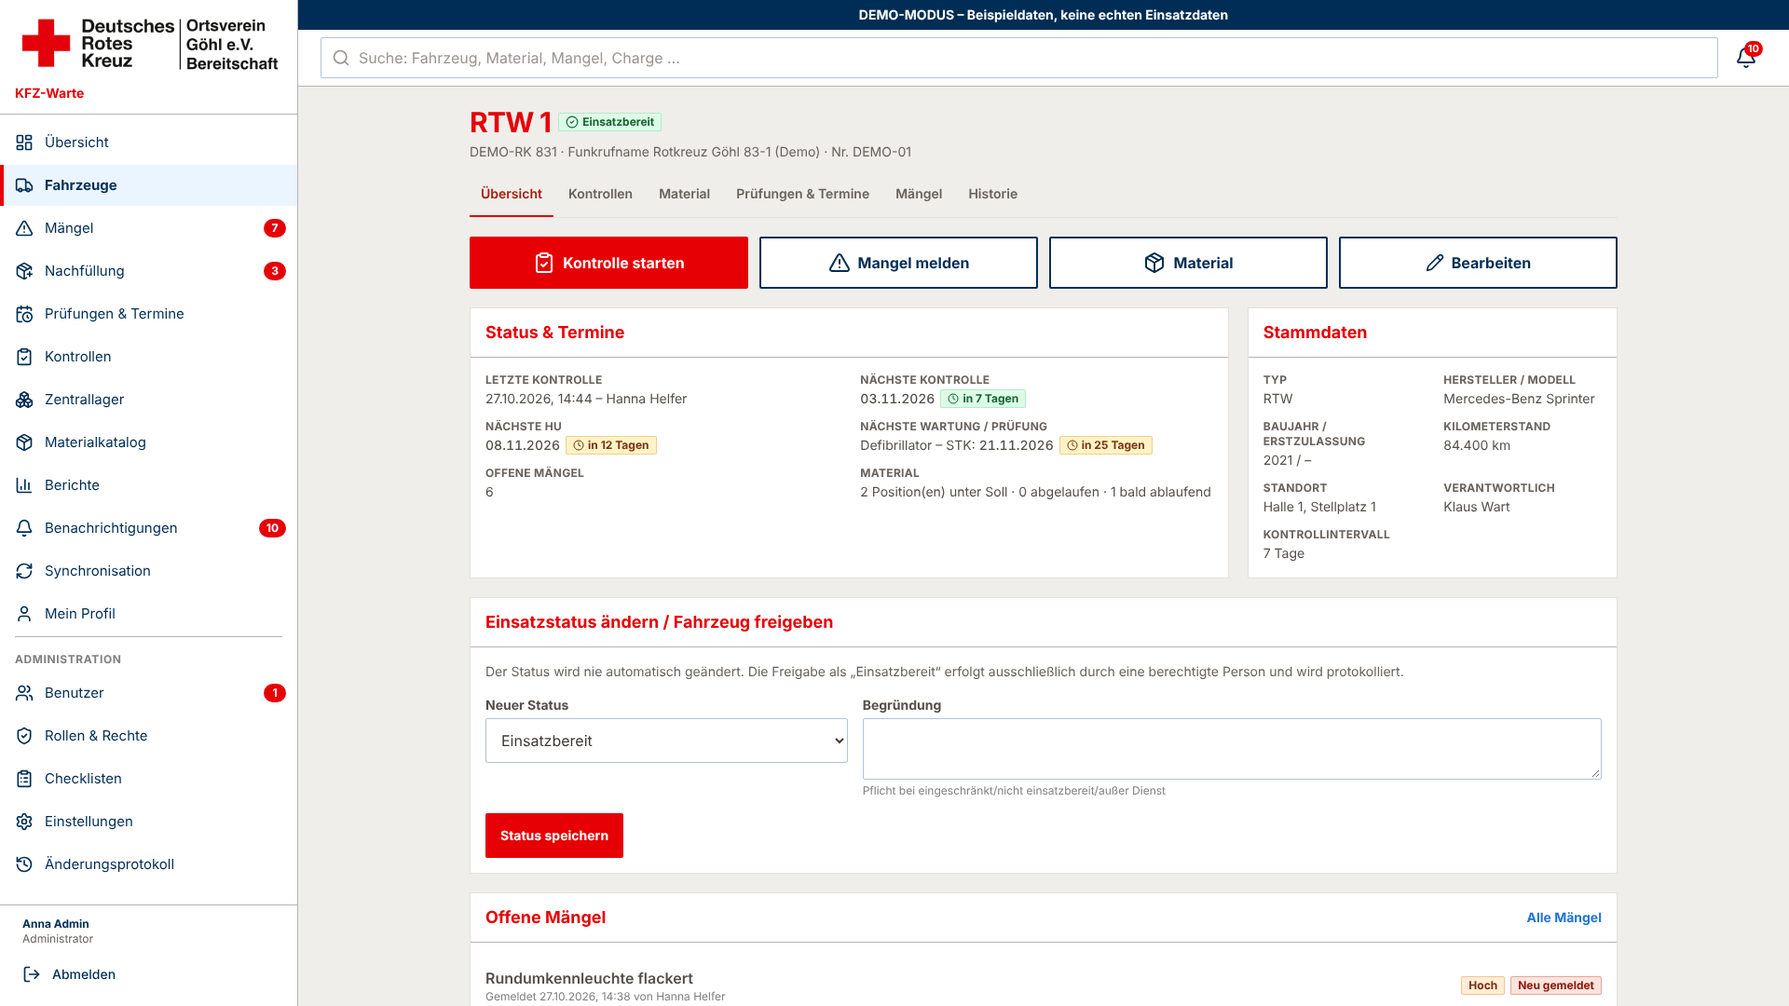
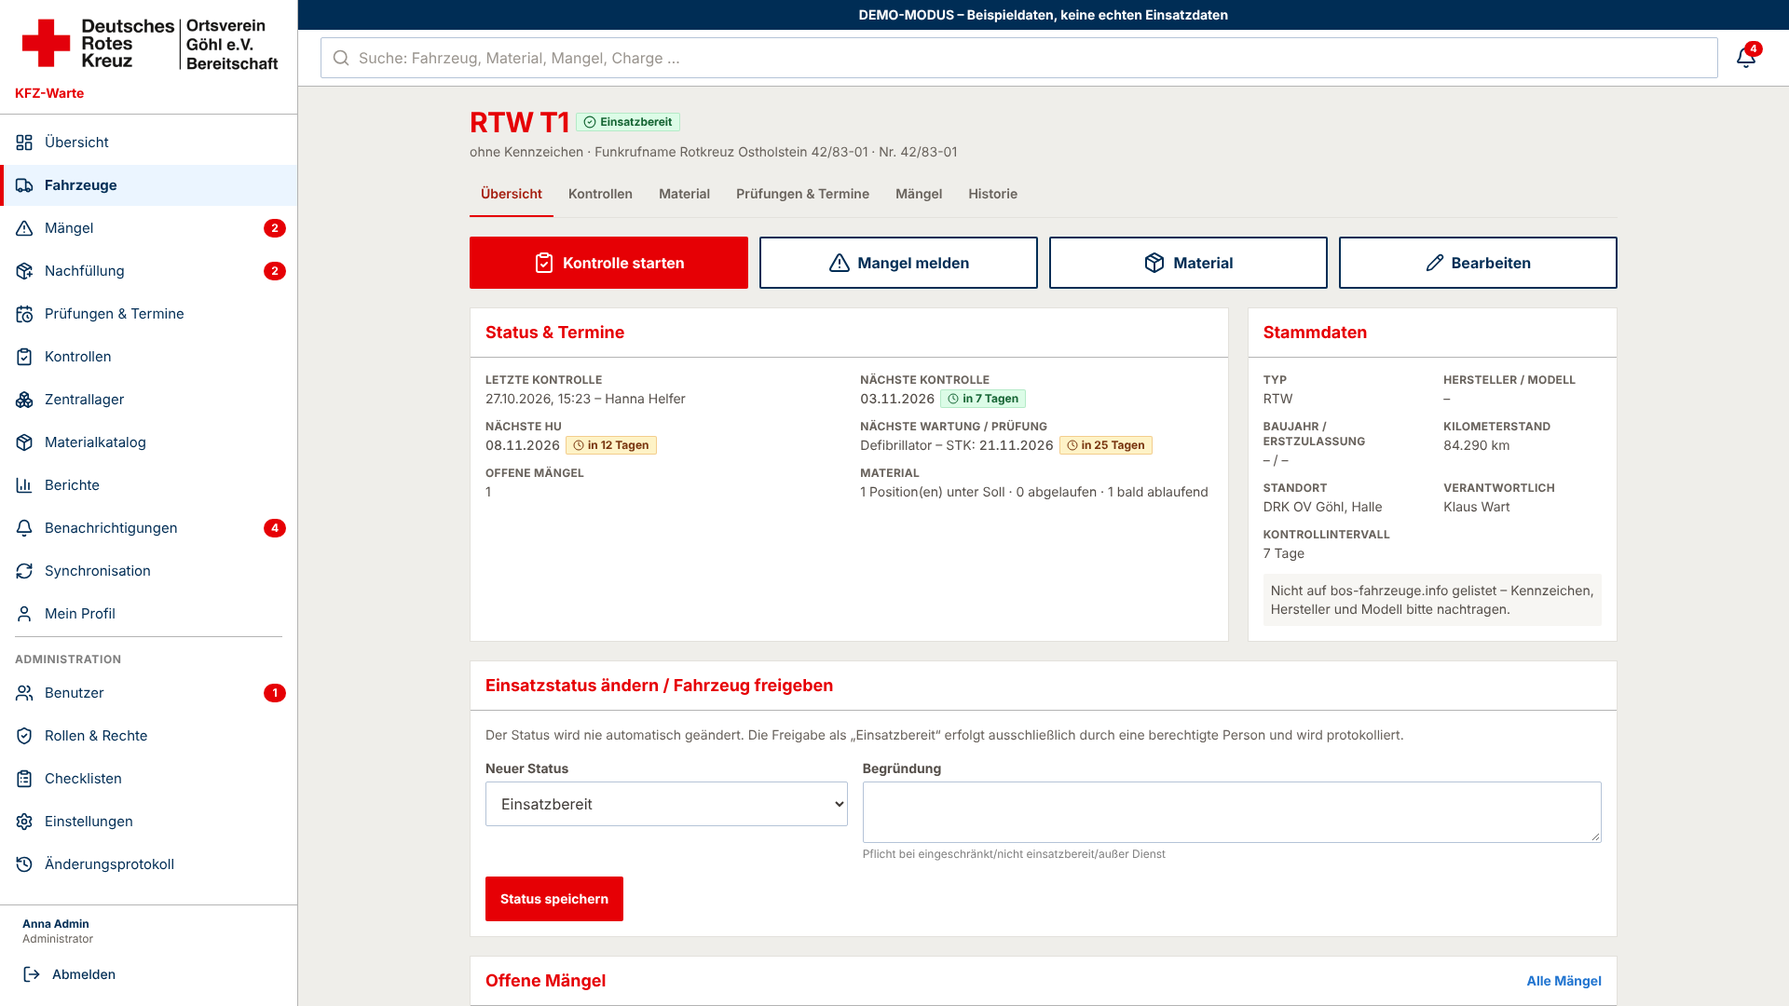
Fahrzeugbestand DRK OV Göhl eingebaut
- Import der 11 Fahrzeuge/Einsatzmittel (npm run db:fahrzeuge), idempotent, mit Protokolleintrag
- Kennzeichen, Klassifizierung, Hersteller laut bos-fahrzeuge.info; neue Fahrzeugtypen
- Kennzeichen optional (Feldkochherd, unbekannte Kennzeichen), geleerte Felder werden beim Bearbeiten gelöscht
- Fahrzeuglisten nach Funkkennung sortiert; Demo-Modus nutzt den echten Fahrzeugbestand
- Tests für Import und optionales Kennzeichen

Claude-Session: https://claude.ai/code/session_01JsYX5eAbazWox3CHVcngmT

diff --git a/prisma/fleet-goehl.ts b/prisma/fleet-goehl.ts
@@ -1,0 +1,84 @@
+/**
+ * Fahrzeugbestand DRK Ortsverein Göhl e.V. (Bereitschaft)
+ * Quelle: Angaben des Ortsvereins + https://bos-fahrzeuge.info/wachen/30215/DRK_OV_Goehl/einsatzfahrzeuge
+ * (Kennzeichen, Klassifizierung, Hersteller – Stand 27.10.2026). Fehlende Angaben bitte in der App ergänzen.
+ */
+import type { PrismaClient } from "@prisma/client";
+
+export type FleetEntry = {
+  internalNumber: string;
+  name: string;
+  radioCallSign?: string;
+  type: string;
+  typeDescription: string;
+  licensePlate?: string;
+  manufacturer?: string;
+  checkIntervalDays: number;
+  remarks?: string;
+};
+
+const SRC = "Stammdaten aus bos-fahrzeuge.info (Stand 27.10.2026) – bitte prüfen und ergänzen (Modell, Baujahr, Erstzulassung, Kilometerstand).";
+
+export const FLEET_GOEHL: FleetEntry[] = [
+  { internalNumber: "42/83-01", name: "RTW T1", radioCallSign: "Rotkreuz Ostholstein 42/83-01", type: "RTW", typeDescription: "Rettungswagen", checkIntervalDays: 7, remarks: "Nicht auf bos-fahrzeuge.info gelistet – Kennzeichen, Hersteller und Modell bitte nachtragen." },
+  { internalNumber: "42/89-01", name: "First Responder", radioCallSign: "Rotkreuz Ostholstein 42/89-01", type: "First Responder", typeDescription: "First-Responder / Helfer vor Ort", licensePlate: "OH-FR 42", manufacturer: "Volkswagen", checkIntervalDays: 7, remarks: SRC },
+  { internalNumber: "42/90-01", name: "N-KTW 1", radioCallSign: "Rotkreuz Ostholstein 42/90-01", type: "N-KTW", typeDescription: "Notfallkrankentransportwagen", licensePlate: "OH-KS 8002", manufacturer: "Mercedes-Benz", checkIntervalDays: 7, remarks: SRC },
+  { internalNumber: "42/90-02", name: "N-KTW 2", radioCallSign: "Rotkreuz Ostholstein 42/90-02", type: "N-KTW", typeDescription: "Notfallkrankentransportwagen", licensePlate: "OH-KS 8000", manufacturer: "Mercedes-Benz", checkIntervalDays: 7, remarks: SRC },
+  { internalNumber: "42/92-01", name: "KTW-4", radioCallSign: "Rotkreuz Ostholstein 42/92-01", type: "KTW-4", typeDescription: "Krankentransportwagen 4-Tragen", licensePlate: "OH-5030", manufacturer: "Volkswagen", checkIntervalDays: 7, remarks: SRC },
+  { internalNumber: "42/95-01", name: "GW-San", radioCallSign: "Rotkreuz Ostholstein 42/95-01", type: "GW-San", typeDescription: "Gerätewagen Sanität", licensePlate: "OH-KS 8005", manufacturer: "MAN", checkIntervalDays: 14, remarks: SRC },
+  { internalNumber: "42/98-01", name: "GW-Bt", radioCallSign: "Rotkreuz Ostholstein 42/98-01", type: "GW-Bt", typeDescription: "Gerätewagen Betreuung", licensePlate: "OH-KS 5007", manufacturer: "MAN", checkIntervalDays: 14, remarks: SRC },
+  { internalNumber: "42/99-01", name: "MTW", radioCallSign: "Rotkreuz Ostholstein 42/99-01", type: "MTW", typeDescription: "Mannschaftstransportwagen", licensePlate: "OH-KS 5012", manufacturer: "Ford", checkIntervalDays: 14, remarks: SRC },
+  { internalNumber: "FKH-01", name: "Feldkochherd", type: "Feldkochherd", typeDescription: "Feldkochherd (Verpflegung)", checkIntervalDays: 30, remarks: "Kennzeichen (falls zugelassen), Hersteller und Typ bitte nachtragen." },
+  {
+    internalNumber: "ANH-VPF-01",
+    name: "Verpflegungsanhänger",
+    type: "Anhänger",
+    typeDescription: "Anhänger",
+    checkIntervalDays: 30,
+    remarks: "Kennzeichen bitte nachtragen. Hinweis: Auf bos-fahrzeuge.info ist ein „Betreuungs- und Verpflegungs-AnH“ (OH-RK 4001) als außer Dienst geführt – prüfen, ob identisch.",
+  },
+  {
+    internalNumber: "ANH-LOG-01",
+    name: "Logistikanhänger",
+    type: "Anhänger",
+    typeDescription: "Anhänger",
+    checkIntervalDays: 30,
+    remarks: "Kennzeichen bitte nachtragen. Hinweis: Auf bos-fahrzeuge.info ist ein „Material-Anhänger“ (Böckmann, KI-AW 22) als außer Dienst geführt – prüfen, ob identisch.",
+  },
+];
+
+/**
+ * Legt fehlende Fahrzeuge an. Bestehende Fahrzeuge (gleiche interne Nummer) werden nicht überschrieben;
+ * nur leere Felder werden ergänzt. Jede Änderung wird im Änderungsprotokoll vermerkt.
+ */
+export async function importFleet(db: PrismaClient, fleet = FLEET_GOEHL) {
+  let created = 0;
+  let completed = 0;
+  for (const f of fleet) {
+    const type = await db.vehicleType.upsert({ where: { name: f.type }, create: { name: f.type, description: f.typeDescription }, update: {} });
+    const existing = await db.vehicle.findUnique({ where: { internalNumber: f.internalNumber } });
+    if (!existing) {
+      let licensePlate = f.licensePlate;
+      if (licensePlate && (await db.vehicle.findUnique({ where: { licensePlate } }))) {
+        console.warn(`⚠ Kennzeichen ${licensePlate} ist bereits einem anderen Fahrzeug zugeordnet – ${f.name} wird ohne Kennzeichen angelegt.`);
+        licensePlate = undefined;
+      }
+      const v = await db.vehicle.create({
+        data: { name: f.name, internalNumber: f.internalNumber, radioCallSign: f.radioCallSign, licensePlate, manufacturer: f.manufacturer, typeId: type.id, checkIntervalDays: f.checkIntervalDays, remarks: f.remarks, location: "DRK OV Göhl" },
+      });
+      await db.auditLog.create({ data: { action: "vehicle.create", entityType: "Vehicle", entityId: v.id, vehicleId: v.id, newValues: { ...f, quelle: "Import Fahrzeugbestand" } } });
+      created++;
+    } else {
+      const patch: Record<string, unknown> = {};
+      if (!existing.radioCallSign && f.radioCallSign) patch.radioCallSign = f.radioCallSign;
+      if (!existing.licensePlate && f.licensePlate && !(await db.vehicle.findUnique({ where: { licensePlate: f.licensePlate } }))) patch.licensePlate = f.licensePlate;
+      if (!existing.manufacturer && f.manufacturer) patch.manufacturer = f.manufacturer;
+      if (Object.keys(patch).length) {
+        await db.vehicle.update({ where: { id: existing.id }, data: patch });
+        await db.auditLog.create({ data: { action: "vehicle.update", entityType: "Vehicle", entityId: existing.id, vehicleId: existing.id, newValues: { ...patch, quelle: "Import Fahrzeugbestand" } as object } });
+        completed++;
+      }
+    }
+  }
+  return { created, completed, total: fleet.length };
+}

diff --git a/src/server/services/vehicles.ts b/src/server/services/vehicles.ts
@@ -19,7 +19,7 @@ const vehicleSchema = z.object({
   name: reqText(100),
   radioCallSign: optText(60),
   internalNumber: reqText(40),
-  licensePlate: z.preprocess((v) => (typeof v === "string" ? v.trim().toUpperCase().replace(/\s+/g, " ") : v), z.string().min(1).max(20)),
+  licensePlate: z.preprocess((v) => (typeof v === "string" ? v.trim().toUpperCase().replace(/\s+/g, " ") || undefined : v ?? undefined), z.string().max(20).optional()),
   typeId: z.string().min(1, "Bitte Fahrzeugtyp wählen"),
   manufacturer: optText(80),
   model: optText(80),
@@ -49,7 +49,7 @@ export async function summarizeVehicles(actor: Actor, opts: { where?: Prisma.Veh
       checks: { orderBy: { performedAt: "desc" }, take: 1, include: { performedBy: { select: { firstName: true, lastName: true } } } },
       inspections: { where: { active: true }, orderBy: { dueDate: "asc" }, include: { type: true } },
     },
-    orderBy: [{ archivedAt: "asc" }, { name: "asc" }],
+    orderBy: [{ archivedAt: "asc" }, { internalNumber: "asc" }],
   });
   const ids = vehicles.map((v) => v.id);
   if (ids.length === 0) return [];
@@ -115,14 +115,14 @@ async function validateRefs(d: z.infer<typeof vehicleSchema>) {
   }
 }
 
-async function ensureUnique(d: { internalNumber: string; licensePlate: string }, exceptId?: string) {
+async function ensureUnique(d: { internalNumber: string; licensePlate?: string }, exceptId?: string) {
   const dup = await db.vehicle.findFirst({
-    where: { OR: [{ internalNumber: d.internalNumber }, { licensePlate: d.licensePlate }], ...(exceptId ? { id: { not: exceptId } } : {}) },
+    where: { OR: [{ internalNumber: d.internalNumber }, ...(d.licensePlate ? [{ licensePlate: d.licensePlate }] : [])], ...(exceptId ? { id: { not: exceptId } } : {}) },
   });
   if (dup) {
     const fe: Record<string, string> = {};
     if (dup.internalNumber === d.internalNumber) fe.internalNumber = "Fahrzeugnummer bereits vergeben";
-    if (dup.licensePlate === d.licensePlate) fe.licensePlate = "Kennzeichen bereits vergeben";
+    if (d.licensePlate && dup.licensePlate === d.licensePlate) fe.licensePlate = "Kennzeichen bereits vergeben";
     throw invalid("Fahrzeug existiert bereits.", fe);
   }
 }
@@ -153,10 +153,12 @@ export async function updateVehicle(actor: Actor, vehicleId: string, input: unkn
   const d = parse(vehicleSchema, input);
   await validateRefs(d);
   await ensureUnique(d, vehicleId);
-  const { oldValues, newValues, changed } = diff(before as unknown as Record<string, unknown>, d);
+  // Geleerte optionale Felder explizit auf null setzen
+  const data = Object.fromEntries(Object.keys(vehicleSchema.shape).map((k) => [k, (d as Record<string, unknown>)[k] ?? null])) as typeof d;
+  const { oldValues, newValues, changed } = diff(before as unknown as Record<string, unknown>, data);
   await db.$transaction(async (tx) => {
     if (changed) {
-      await tx.vehicle.update({ where: { id: vehicleId }, data: d });
+      await tx.vehicle.update({ where: { id: vehicleId }, data });
       await audit(actor, { action: "vehicle.update", entityType: "Vehicle", entityId: vehicleId, vehicleId, oldValues, newValues }, tx);
     }
     if (d.responsibleUserId && d.responsibleUserId !== before.responsibleUserId) {

diff --git a/prisma/demo.ts b/prisma/demo.ts
@@ -6,7 +6,7 @@
 import { PrismaClient } from "@prisma/client";
 import bcrypt from "bcryptjs";
 import { loadActor } from "../src/server/auth/session";
-import { createVehicle } from "../src/server/services/vehicles";
+import { importFleet } from "./fleet-goehl";
 import { createInspection } from "../src/server/services/inspections";
 import { createMaterial, createVehicleStock, writeOffMaterial, listVehicleStock } from "../src/server/services/materials";
 import { receiveStock } from "../src/server/services/warehouse";
@@ -42,10 +42,13 @@ async function main() {
   await mk("demo.neu", "Nora", "Neu", "USER").then((u) => db.user.update({ where: { id: u.id }, data: { status: "PENDING", approvedAt: null } }));
 
   const A = (await loadActor(admin.id))!;
-  const types = Object.fromEntries((await db.vehicleType.findMany()).map((t) => [t.name, t.id]));
-  const rtw = await createVehicle(A, { name: "RTW 1", radioCallSign: "Rotkreuz Göhl 83-1 (Demo)", internalNumber: "DEMO-01", licensePlate: "DEMO-RK 831", typeId: types.RTW, manufacturer: "Mercedes-Benz", model: "Sprinter", buildYear: "2021", mileage: "84210", location: "Halle 1, Stellplatz 1", responsibleUserId: wart.id, checkIntervalDays: "7" });
-  const ktw = await createVehicle(A, { name: "KTW 1", internalNumber: "DEMO-02", licensePlate: "DEMO-RK 851", typeId: types.KTW, manufacturer: "Volkswagen", model: "T6", buildYear: "2019", mileage: "122400", location: "Halle 1, Stellplatz 2", responsibleUserId: wart.id, checkIntervalDays: "7" });
-  const mtw = await createVehicle(A, { name: "MTW 1", internalNumber: "DEMO-03", licensePlate: "DEMO-RK 191", typeId: types.MTW, mileage: "45000", location: "Halle 2", checkIntervalDays: "14" });
+  // Echter Fahrzeugbestand des OV Göhl (Stammdaten), ergänzt um fiktive Demo-Vorgänge
+  await importFleet(db);
+  const byNo = async (n: string) => db.vehicle.findUniqueOrThrow({ where: { internalNumber: n } });
+  const rtw = await db.vehicle.update({ where: { id: (await byNo("42/83-01")).id }, data: { mileage: 84210, responsibleUserId: wart.id, location: "DRK OV Göhl, Halle" } });
+  const ktw = await db.vehicle.update({ where: { id: (await byNo("42/90-01")).id }, data: { mileage: 122400, responsibleUserId: wart.id } });
+  const mtw = await byNo("42/99-01");
+  await db.vehicleAssignment.createMany({ data: [rtw, ktw].map((v) => ({ userId: wart.id, vehicleId: v.id })), skipDuplicates: true });
   await db.vehicleAssignment.createMany({ data: [{ userId: helfer.id, vehicleId: rtw.id }, { userId: lager.id, vehicleId: rtw.id }, { userId: lager.id, vehicleId: ktw.id }, { userId: wart.id, vehicleId: mtw.id }], skipDuplicates: true });
 
   const today = berlinToday();

diff --git a/tests/fleet.test.ts b/tests/fleet.test.ts
@@ -1,0 +1,35 @@
+import { describe, expect, it } from "vitest";
+import { db, makeUser } from "./helpers";
+import { FLEET_GOEHL, importFleet } from "../prisma/fleet-goehl";
+import { createVehicle, updateVehicle } from "@/server/services/vehicles";
+
+describe("Fahrzeugbestand DRK OV Göhl", () => {
+  it("importiert alle Fahrzeuge einmalig und überschreibt keine späteren Änderungen", async () => {
+    const first = await importFleet(db);
+    expect(first.created).toBe(FLEET_GOEHL.length);
+    const rtw = await db.vehicle.findUniqueOrThrow({ where: { internalNumber: "42/83-01" } });
+    expect(rtw.radioCallSign).toBe("Rotkreuz Ostholstein 42/83-01");
+    expect(rtw.licensePlate).toBeNull();
+    const nktw = await db.vehicle.findUniqueOrThrow({ where: { internalNumber: "42/90-01" }, include: { type: true } });
+    expect(nktw).toMatchObject({ licensePlate: "OH-KS 8002", manufacturer: "Mercedes-Benz" });
+    expect(nktw.type.name).toBe("N-KTW");
+
+    await db.vehicle.update({ where: { id: nktw.id }, data: { name: "N-KTW 1 (umbenannt)" } });
+    const second = await importFleet(db);
+    expect(second.created).toBe(0);
+    expect((await db.vehicle.findUniqueOrThrow({ where: { id: nktw.id } })).name).toBe("N-KTW 1 (umbenannt)");
+  });
+
+  it("Kennzeichen ist optional und kann wieder geleert werden", async () => {
+    const admin = await makeUser("ADMIN");
+    const type = await db.vehicleType.findFirstOrThrow();
+    const v = await createVehicle(admin, { name: "Feldkochherd Test", internalNumber: "FKH-TEST", licensePlate: "", typeId: type.id, checkIntervalDays: "30" });
+    expect(v.licensePlate).toBeNull();
+    await updateVehicle(admin, v.id, { name: "Feldkochherd Test", internalNumber: "FKH-TEST", licensePlate: "oh-fk 1", typeId: type.id, checkIntervalDays: "30", remarks: "x" });
+    expect((await db.vehicle.findUniqueOrThrow({ where: { id: v.id } })).licensePlate).toBe("OH-FK 1");
+    await updateVehicle(admin, v.id, { name: "Feldkochherd Test", internalNumber: "FKH-TEST", licensePlate: "", typeId: type.id, checkIntervalDays: "30", remarks: "" });
+    const after = await db.vehicle.findUniqueOrThrow({ where: { id: v.id } });
+    expect(after.licensePlate).toBeNull();
+    expect(after.remarks).toBeNull();
+  });
+});

diff --git a/src/components/vehicle-form.tsx b/src/components/vehicle-form.tsx
@@ -9,7 +9,7 @@ type V = {
   name?: string;
   radioCallSign?: string | null;
   internalNumber?: string;
-  licensePlate?: string;
+  licensePlate?: string | null;
   typeId?: string;
   manufacturer?: string | null;
   model?: string | null;
@@ -41,7 +41,7 @@ export function VehicleForm({
         <TextInput label="Fahrzeugname" name="name" defaultValue={vehicle.name} required placeholder="z. B. RTW 1" />
         <TextInput label="Funkrufname" name="radioCallSign" defaultValue={vehicle.radioCallSign ?? ""} placeholder="z. B. Rotkreuz Göhl 83-1" />
         <TextInput label="Interne Fahrzeugnummer" name="internalNumber" defaultValue={vehicle.internalNumber} required />
-        <TextInput label="Kennzeichen" name="licensePlate" defaultValue={vehicle.licensePlate} required autoCapitalize="characters" />
+        <TextInput label="Kennzeichen" name="licensePlate" defaultValue={vehicle.licensePlate ?? ""} autoCapitalize="characters" hint="Leer lassen bei Geräten ohne Zulassung (z. B. Feldkochherd)" />
         <SelectInput label="Fahrzeugtyp" name="typeId" defaultValue={vehicle.typeId} required placeholder="Bitte wählen" options={types.map((t) => ({ value: t.id, label: t.name }))} hint="Weitere Typen unter Einstellungen anlegen" />
         <TextInput label="Kontrollintervall (Tage)" name="checkIntervalDays" type="number" inputMode="numeric" min={1} max={365} defaultValue={vehicle.checkIntervalDays ?? 7} required hint="Nach wie vielen Tagen die nächste Fahrzeugkontrolle fällig ist" />
         <TextInput label="Hersteller" name="manufacturer" defaultValue={vehicle.manufacturer ?? ""} />

diff --git a/src/components/defect-form.tsx b/src/components/defect-form.tsx
@@ -8,7 +8,7 @@ import { DEFECT_CATEGORY, DEFECT_SEVERITY } from "@/lib/labels";
 import { LocalFilePicker } from "./Uploader";
 import { Alert, Button } from "./ui";
 
-type Vehicle = { id: string; name: string; licensePlate: string; mileage: number | null };
+type Vehicle = { id: string; name: string; licensePlate: string | null; mileage: number | null };
 
 export function DefectForm({ userId, vehicles, defaultVehicleId, draftId, canAssign, users }: { userId: string; vehicles: Vehicle[]; defaultVehicleId?: string; draftId?: string; canAssign: boolean; users: { id: string; firstName: string; lastName: string }[] }) {
   const router = useRouter();
@@ -88,7 +88,7 @@ export function DefectForm({ userId, vehicles, defaultVehicleId, draftId, canAss
           <label className="label" htmlFor="df-vehicleId">Betroffenes Fahrzeug *</label>
           <select className="input" value={f.vehicleId} onChange={(e) => set("vehicleId", e.target.value)} {...field("vehicleId")}>
             <option value="">Bitte wählen</option>
-            {vehicles.map((v) => <option key={v.id} value={v.id}>{v.name} ({v.licensePlate})</option>)}
+            {vehicles.map((v) => <option key={v.id} value={v.id}>{v.name}{v.licensePlate ? ` (${v.licensePlate})` : ""}</option>)}
           </select>
           <Err k="vehicleId" />
         </div>

diff --git a/src/server/services/reports.ts b/src/server/services/reports.ts
@@ -59,7 +59,7 @@ export async function buildReport(actor: Actor, type: string, p: ReportParams): 
         columns: ["Fahrzeug", "Kennzeichen", "Typ", "Status", "Letzte Kontrolle", "Nächste Kontrolle", "Nächste HU", "Nächste Wartung", "Offene Mängel", "Fehlendes Material", "Abgelaufen", "Bald ablaufend"],
         rows: vs.map((v) => [
           v.name,
-          v.licensePlate,
+          v.licensePlate ?? "",
           v.type.name,
           VEHICLE_STATUS[v.status],
           fmtDate(v.lastCheck?.performedAt),
@@ -83,7 +83,7 @@ export async function buildReport(actor: Actor, type: string, p: ReportParams): 
         take: 2000,
       });
       return {
-        title: `${REPORT_TYPES.fahrzeughistorie}: ${v.name} (${v.licensePlate})`,
+        title: `${REPORT_TYPES.fahrzeughistorie}: ${v.name}${v.licensePlate ? ` (${v.licensePlate})` : ""}`,
         subtitle: period,
         columns: ["Zeitpunkt", "Benutzer", "Aktion", "Datensatz", "Details"],
         rows: logs.map((l) => [fmtDateTime(l.createdAt), name(l.user), AUDIT_ACTION[l.action] ?? l.action, l.entityType, compactJson(l.newValues)]),

diff --git a/src/components/vehicle-cards.tsx b/src/components/vehicle-cards.tsx
@@ -1,7 +1,7 @@
 import Link from "next/link";
 import { AlertOctagon, AlertTriangle, ClipboardCheck, Package, PackageX } from "lucide-react";
 import type { VehicleSummary } from "@/server/services/vehicles";
-import { daysUntil, fmtDate } from "@/lib/format";
+import { daysUntil, fmtDate, plate } from "@/lib/format";
 import { DueBadge, VehicleStatusBadge } from "./status";
 import { Badge } from "./ui";
 
@@ -17,7 +17,7 @@ export function VehicleCards({ vehicles }: { vehicles: VehicleSummary[] }) {
               <div className="min-w-0">
                 <p className="truncate text-lg font-bold">{v.name}</p>
                 <p className="text-sm text-gray-600">
-                  {v.licensePlate} · {v.type.name}
+                  {plate(v.licensePlate)} · {v.type.name}
                   {v.radioCallSign ? ` · ${v.radioCallSign}` : ""}
                 </p>
               </div>

diff --git a/src/server/services/search.ts b/src/server/services/search.ts
@@ -16,7 +16,7 @@ export async function globalSearch(actor: Actor, q: string): Promise<SearchHit[]
     where: { AND: [vehicleWhere(actor, true), { OR: [{ name: contains }, { licensePlate: contains }, { radioCallSign: contains }, { internalNumber: contains }] }] },
     take: 10,
   });
-  hits.push(...vehicles.map((v) => ({ type: "Fahrzeug", title: v.name, subtitle: `${v.licensePlate}${v.radioCallSign ? ` · ${v.radioCallSign}` : ""}`, href: `/fahrzeuge/${v.id}` })));
+  hits.push(...vehicles.map((v) => ({ type: "Fahrzeug", title: v.name, subtitle: [v.licensePlate, v.radioCallSign].filter(Boolean).join(" · "), href: `/fahrzeuge/${v.id}` })));
 
   const defects = await db.defect.findMany({
     where: { ...viaVehicle(actor), OR: [{ title: contains }, { description: contains }] },

diff --git a/src/app/(app)/maengel/[id]/page.tsx b/src/app/(app)/maengel/[id]/page.tsx
@@ -27,7 +27,7 @@ export default async function DefectDetail({ params, searchParams }: { params: P
 
   return (
     <>
-      <PageHeader title={d.title} subtitle={<Link href={`/fahrzeuge/${d.vehicleId}`} className="hover:text-drkblue-600">{d.vehicle.name} · {d.vehicle.licensePlate}</Link>} back={{ href: "/maengel", label: "Mängel" }} />
+      <PageHeader title={d.title} subtitle={<Link href={`/fahrzeuge/${d.vehicleId}`} className="hover:text-drkblue-600">{d.vehicle.name}{d.vehicle.licensePlate ? ` · ${d.vehicle.licensePlate}` : ""}</Link>} back={{ href: "/maengel", label: "Mängel" }} />
       <div className="space-y-5">
         {sp.neu && <Alert tone="success" title="Mangel gemeldet. Die Verantwortlichen wurden benachrichtigt." />}
         {critical && (

diff --git a/src/app/(app)/admin/benutzer/[id]/page.tsx b/src/app/(app)/admin/benutzer/[id]/page.tsx
@@ -31,7 +31,7 @@ export default async function UserDetail({ params }: { params: Promise<{ id: str
         {vehicles.map((v) => (
           <label key={v.id} className="flex min-h-11 items-center gap-3 rounded-lg px-2 hover:bg-gray-50">
             <input type={multi ? "checkbox" : "radio"} name="vehicleIds" value={v.id} defaultChecked={assigned.has(v.id)} className="h-5 w-5 accent-drk-500" />
-            <span className="text-sm">{v.name} <span className="text-gray-500">({v.licensePlate})</span></span>
+            <span className="text-sm">{v.name} {v.licensePlate && <span className="text-gray-500">({v.licensePlate})</span>}</span>
           </label>
         ))}
         {!multi && (

diff --git a/prisma/fahrzeuge-goehl.ts b/prisma/fahrzeuge-goehl.ts
@@ -1,0 +1,12 @@
+/** Importiert den Fahrzeugbestand des DRK OV Göhl: `npm run db:fahrzeuge` (mehrfach ausführbar). */
+import { PrismaClient } from "@prisma/client";
+import { importFleet } from "./fleet-goehl";
+
+const db = new PrismaClient();
+importFleet(db)
+  .then((r) => console.log(`✔ Fahrzeugbestand: ${r.created} angelegt, ${r.completed} ergänzt, ${r.total} insgesamt in der Liste.`))
+  .catch((e) => {
+    console.error(e);
+    process.exitCode = 1;
+  })
+  .finally(() => db.$disconnect());
